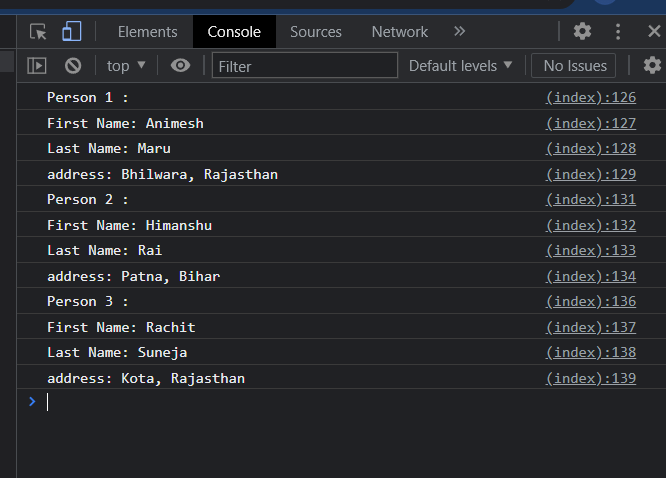
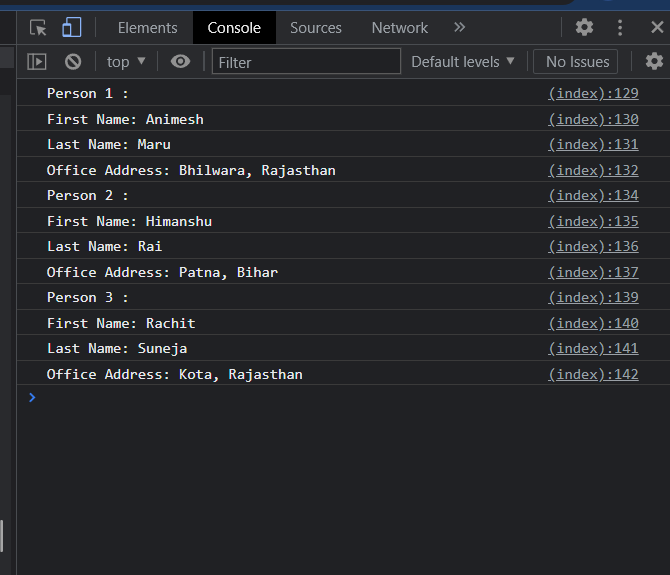
updated

Changed region(s): [[0.0, 0.0, 1.0, 0.8201], [0.0, 0.9079, 0.03, 0.9665], [0.03, 0.8201, 0.0601, 0.8494]]

diff --git a/index.html b/index.html
@@ -82,7 +82,7 @@
         {
             this.firstName = fname;
             this.lastName = lname;
-            this.address = add;
+            this.officeAddress = add;
         }
 
         const personOne = new Person('Animesh', 'Maru', 'Bhilwara, Rajasthan');
@@ -92,17 +92,17 @@
         console.log("Person 1 : ");
         console.log("First Name: "+ personOne.firstName )
         console.log("Last Name: "+ personOne.lastName )
-        console.log("address: "+ personOne.address )
+        console.log("Office Address: "+ personOne.officeAddress )
                 
         console.log("Person 2 : ");
         console.log("First Name: "+ personTwo.firstName )
         console.log("Last Name: "+ personTwo.lastName )
-        console.log("address: "+ personTwo.address )
+        console.log("Office Address: "+ personTwo.officeAddress )
                 
         console.log("Person 3 : ");
         console.log("First Name: "+ personThree.firstName )
         console.log("Last Name: "+ personThree.lastName )
-        console.log("address: "+ personThree.address )
+        console.log("Office Address: "+ personThree.officeAddress )
 
         
 </script>
